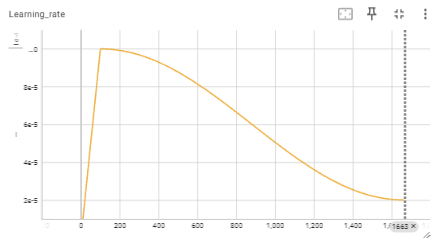
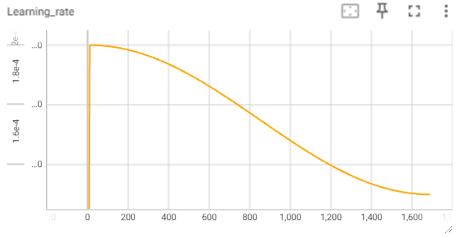
update classical transformers result

diff --git a/train.py b/train.py
@@ -62,8 +62,6 @@ class GutenbergPoetryDataset(Dataset):
 
 
 def cosine_lr_schedule(step: int, max_steps: int) -> float:
-    min_lr = min(args.lr / 5, 1e-4)
-
     # Warmup phase
     if step < args.warmup_steps:
         return (float(step) / float(max(1, args.warmup_steps))) * args.lr
@@ -72,7 +70,9 @@ def cosine_lr_schedule(step: int, max_steps: int) -> float:
     progress = float(step - args.warmup_steps) / float(
         max(1, max_steps - args.warmup_steps)
     )
-    return min_lr + 0.5 * (args.lr - min_lr) * (1.0 + math.cos(math.pi * progress))
+    return args.min_lr + 0.5 * (args.lr - args.min_lr) * (
+        1.0 + math.cos(math.pi * progress)
+    )
 
 
 def validate(
@@ -83,7 +83,8 @@ def validate(
     model.eval()
     val_loss = 0.0
     with torch.no_grad():
-        for X, y in val_dataloader:
+        progress_bar = tqdm(val_dataloader, desc="Validating")
+        for X, y in progress_bar:
             X, y = X.to(args.device), y.to(args.device)
             _, loss = model(X, y)
             val_loss += loss
@@ -116,6 +117,8 @@ def train(
         opt, lr_lambda=lambda step: cosine_lr_schedule(step, max_steps)
     )
 
+    # Add max gradient norm for clipping
+    max_grad_norm = 1.0
     global_step = 0
 
     for epoch in tqdm(range(args.epochs), desc="Epochs"):
@@ -137,6 +140,9 @@ def train(
 
             # Only update weights and log metrics after accumulating gradients
             if (step + 1) % args.gradient_accumulation_steps == 0:
+                # Add gradient clipping before optimizer step
+                torch.nn.utils.clip_grad_norm_(model.parameters(), max_grad_norm)
+
                 opt.step()
                 scheduler.step()
                 opt.zero_grad()
@@ -171,11 +177,6 @@ def train(
         avg_train_loss = train_loss / num_training_steps
         writer.add_scalar("Loss/train_epoch", avg_train_loss, epoch)
 
-        # Validation
-
-        # writer.add_scalar("Loss/validation_epoch", avg_val_loss, epoch)
-        # print(f"Validation loss: {avg_val_loss}")
-
     writer.close()
 
 
@@ -201,7 +202,7 @@ def parse_args():
         help="Model type (currently only transformer is supported)",
     )
     parser.add_argument(
-        "--seq-len", type=int, default=256, help="Max sequence length of the model"
+        "--seq-len", type=int, default=128, help="Max sequence length of the model"
     )
     parser.add_argument(
         "--device", type=str, default="cpu", help="Device to use for training"
@@ -209,12 +210,15 @@ def parse_args():
 
     # Training Arguments
     parser.add_argument("--lr", type=float, default=0.0002, help="Learning rate")
-    parser.add_argument("--warmup-steps", type=int, default=100, help="Warmup steps")
-    parser.add_argument("--train-batch-size", type=int, default=32, help="Batch size")
+    parser.add_argument(
+        "--min-lr", type=float, default=0.00015, help="Minimum learning rate"
+    )
+    parser.add_argument("--warmup-steps", type=int, default=10, help="Warmup steps")
+    parser.add_argument("--train-batch-size", type=int, default=128, help="Batch size")
     parser.add_argument(
         "--gradient-accumulation-steps",
         type=int,
-        default=2,
+        default=1,
         help="Gradient accumulation steps",
     )
     parser.add_argument("--epochs", type=int, default=1, help="Number of epochs")
@@ -222,7 +226,7 @@ def parse_args():
         "--eval-every", type=int, default=100, help="Validation every n steps"
     )
     parser.add_argument(
-        "--val-batch-size", type=int, default=32, help="Validation batch size"
+        "--val-batch-size", type=int, default=48, help="Validation batch size"
     )
     return parser.parse_args()
 

diff --git a/models/transformer/transformer.py b/models/transformer/transformer.py
@@ -21,15 +21,35 @@ class ClassicalTransformer(nn.Module):
         super().__init__()
         self.vocab_size = vocab_size
         self.pad_id = pad_id
-        self.input_emb = SinusoidalEmbedding(seq_len, 512, self.vocab_size, device)
-        self.target_emb = SinusoidalEmbedding(seq_len, 512, self.vocab_size, device)
+
+        self.hidden_size = 512
+        self.ffn_size = 2048
+        self.num_heads = 8
+        self.dropout_rate = 0.1
+
+        self.input_emb = SinusoidalEmbedding(
+            seq_len, self.hidden_size, self.vocab_size, device
+        )
+        self.target_emb = SinusoidalEmbedding(
+            seq_len, self.hidden_size, self.vocab_size, device
+        )
         self.encoder = nn.ModuleList(
-            [EncoderBlock(512, 8, 2048, 0.1) for _ in range(6)]
+            [
+                EncoderBlock(
+                    self.hidden_size, self.num_heads, self.ffn_size, self.dropout_rate
+                )
+                for _ in range(6)
+            ]
         )
         self.decoder = nn.ModuleList(
-            [DecoderBlock(512, 8, 2048, 0.1) for _ in range(6)]
+            [
+                DecoderBlock(
+                    self.hidden_size, self.num_heads, self.ffn_size, self.dropout_rate
+                )
+                for _ in range(6)
+            ]
         )
-        self.lm_head = nn.Linear(512, self.vocab_size)
+        self.lm_head = nn.Linear(self.hidden_size, self.vocab_size)
 
     def _make_encoder_mask(self, x: torch.Tensor) -> torch.Tensor:
         """Creates encoder mask which prevents attending to padding tokens."""

diff --git a/README.md b/README.md
@@ -20,15 +20,16 @@ python train.py -h
 
 ## Experiments
 
-- batch_size = 64
-- seq_len = 256
+- batch_size = 128
+- seq_len = 128
 - num_epochs = 1
 - optimizer = AdamW
 - weight_decay = 0.01
 - warmup_steps = 100
-- init_lr = 1e-4
-- min_lr = 2e-5
+- init_lr = 2e-4
+- min_lr = 1.5e-4
 - lr_schedule = cosine decay to min_lr with warmup
+- eval_every = 100
 
 ![Learning Rate Schedule](images/lr.png)
 
@@ -38,7 +39,17 @@ python train.py -h
 
 The same model configuration as the original [Attention is All You Need](https://arxiv.org/abs/1706.03762) paper is used.
 
-<div style="display: flex; justify-content: space-between;">
-    <img src="images/train_loss_classical_transformer.png" width="48%" alt="Training Loss">
-    <img src="images/val_loss_classical_transformer.png" width="48%" alt="Validation Loss">
+<div style="display: flex; flex-wrap: wrap; justify-content: space-between;">
+    <div style="width: 48%;">
+        <h4>Training Loss</h4>
+        <img src="images/train_loss_classical_transformer.png" width="100%" alt="Training Loss">
+    </div>
+    <div style="width: 48%;">
+        <h4>Validation Loss</h4>
+        <img src="images/val_loss_classical_transformer.png" width="100%" alt="Validation Loss">
+    </div>
+    <div style="width: 48%;">
+        <h4>Training Token Accuracy</h4>
+        <img src="images/train_token_acc_classical_transformer.png" width="100%" alt="Training Token Accuracy">
+    </div>
 </div>
